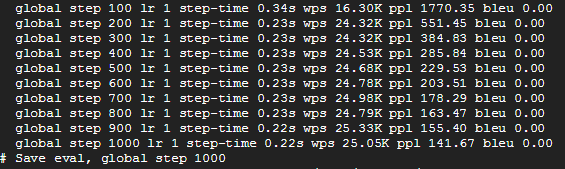
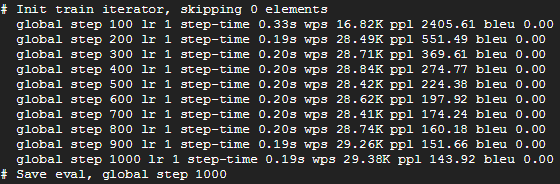
Update files

diff --git a/course/google-cloud-platform/gce-gpu-nmt.md b/course/google-cloud-platform/gce-gpu-nmt.md
@@ -6,7 +6,7 @@ title: Course | GCP | GCE | Neural Machine Translation using GPU
 
 # Neural Machine Translation using GPU on Google Compute Engine
 
-*Last Updated: July 28, 2017*
+*Last Updated: August 31, 2017*
 
 In this experiment, we walk through the steps to train a neural machine translation model with a [GPU](http://realai.org/course/tensorflow/#gpu) on [Google Compute Engine](http://realai.org/course/google-cloud-platform/#google-compute-engine).
 
@@ -14,7 +14,7 @@ In this experiment, we walk through the steps to train a neural machine translat
 
 * A Google cloud account with at least a few US dollars of credit. Typically, a user receives [$300 free credit](https://cloud.google.com/free/) over a [12-month trial period](https://cloud.google.com/free/docs/frequently-asked-questions#free-trial). A credit card is needed to create an account.
 
-* Join the [NVIDIA Developer Program](https://developer.nvidia.com/developer-program). Membership is required for [cuDNN download](https://developer.nvidia.com/rdp/cudnn-download). Save the [Linux version](https://developer.nvidia.com/compute/machine-learning/cudnn/secure/v5.1/prod_20161129/8.0/cudnn-8.0-linux-x64-v5.1-tgz) of cuDNN v5.1 (Jan 20, 2017) for CUDA 8.0 in a directory on your local computer.
+* Join the [NVIDIA Developer Program](https://developer.nvidia.com/developer-program). Membership is required for [cuDNN download](https://developer.nvidia.com/rdp/cudnn-download). Save the [Linux version](https://developer.nvidia.com/compute/machine-learning/cudnn/secure/v6/prod/8.0_20170307/cudnn-8.0-linux-x64-v6.0-tgz) of "cuDNN v6.0 (April 27, 2017), for CUDA 8.0" in a directory on your local computer.
 
 ## VM Instance
 
@@ -22,14 +22,14 @@ Create a virtual machine (VM) instance in [Compute Engine](https://console.cloud
 
 ## GPU Setup - CUDA
 
-[CUDA](https://en.wikipedia.org/wiki/CUDA) is a software created by NVIDIA that allows us to use its GPUs. First we need to ensure that our system has [gcc](https://en.wikipedia.org/wiki/GNU_Compiler_Collection) installed:
+[CUDA](http://www.nvidia.com/object/cuda_home_new.html) (Compute Unified Device Architecture) is a toolkit created by [NVIDIA](http://www.nvidia.com) that allows us to use its GPUs. CUDA has an official [Installation Guide for Linux](http://docs.nvidia.com/cuda/cuda-installation-guide-linux/index.html). According to the Guide's [System Requirements](http://docs.nvidia.com/cuda/cuda-installation-guide-linux/index.html#system-requirements), we need to have [gcc](https://en.wikipedia.org/wiki/GNU_Compiler_Collection) on our system:
 
 ```bash
 sudo apt-get update
 sudo apt-get install build-essential -y
 ```
 
-Now follow the [NVIDIA CUDA Installation Guide for Linux](http://docs.nvidia.com/cuda/cuda-installation-guide-linux/index.html):
+Now download CUDA from [CUDA Toolkit Download](https://developer.nvidia.com/cuda-downloads), then follow the Guide's [instructions for Ubuntu](http://docs.nvidia.com/cuda/cuda-installation-guide-linux/index.html#ubuntu-installation):
 
 ```bash
 wget https://developer.download.nvidia.com/compute/cuda/repos/ubuntu1604/x86_64/cuda-repo-ubuntu1604_8.0.61-1_amd64.deb
@@ -47,10 +47,10 @@ export LD_LIBRARY_PATH=/usr/local/cuda-8.0/lib64${LD_LIBRARY_PATH:+:${LD_LIBRARY
 
 ## GPU Setup - cuDNN
 
-Click the gear icon on the upper right corner of the terminal, select the cuDNN file downloaded earlier, and upload it to the virtual machine. After the file is transferred to the cloud:
+[cuDNN](https://developer.nvidia.com/cudnn) provides highly-tuned building blocks specifically for deep learning, such as convolution, pooling, and normalization. Click the gear icon on the upper right corner of the terminal, select the cuDNN file downloaded earlier, and upload it to the VM. After the file is transferred to the cloud, follow these steps based on the official instructions for [Installing cuDNN on Linux](http://docs.nvidia.com/deeplearning/sdk/cudnn-install/index.html#installlinux):
 
 ```bash
-tar -xzvf cudnn-8.0-linux-x64-v5.1.tgz
+tar -xzvf cudnn-8.0-linux-x64-v6.0.tgz
 sudo cp cuda/lib64/* /usr/local/cuda/lib64/
 sudo cp cuda/include/* /usr/local/cuda/include/
 ```
@@ -63,6 +63,8 @@ rm -rf cuda
 rm cudnn-8.0-linux-x64-v5.1.tgz
 ```
 
+The NVIDIA portion of the installation is now complete. Let's move to [TensorFlow](http://realai.org/course/tensorflow/).
+
 ## TensorFlow Setup
 
 Following the requirements on [official TensorFlow installation instructions](https://www.tensorflow.org/install/install_linux), we first install a library:
@@ -74,14 +76,12 @@ sudo apt-get install libcupti-dev -y
 Then we get pip from [Python Software Foundation](https://packaging.python.org/tutorials/installing-packages/):
 
 ```bash
-wget https://bootstrap.pypa.io/get-pip.py
-sudo python get-pip.py
-rm get-pip.py
+curl https://bootstrap.pypa.io/get-pip.py | sudo python3 get-pip.py
 ```
 
 ### Moving VM Instance
 
-Type 'exit' to close the terminal, then STOP (DO NOT **DELETE**) the VM instance on which we just installed GPU software. In [Snapshots](https://console.cloud.google.com/compute/snapshots), create a snapshot of this instance. Go back to "VM instances" and shut down the instance for which we already created a snapshot. Now it's time to get a powerful GPU computer.
+Type 'exit' to close the terminal, then STOP (DO NOT **DELETE**) the VM instance on which we just installed GPU software. In [Snapshots](https://console.cloud.google.com/compute/snapshots), create a snapshot of this instance. Go back to "VM instances" and `DELETE` the instance if you like since we've already created a snapshot. Now it's time to get a powerful GPU computer.
 
 In Oregon, an "n1-standard-2" machine type costs [$0.095 per hour](https://cloud.google.com/compute/pricing#predefined_machine_types) and 1 GPU processor costs [$0.70 per hour](https://cloud.google.com/compute/pricing#gpus). We create a new VM in Zone "us-west1-b" using these parameters.
 
@@ -92,6 +92,16 @@ On this new VM, we do a [native pip](https://www.tensorflow.org/install/install_
 ```bash
 sudo pip install tensorflow-gpu
 ```
+
+### Jupyter Notebook (Optional)
+
+If needed, install [Jupyter Notebook](http://realai.org/course/jupyter/):
+
+```bash
+sudo pip install jupyter
+```
+
+For readers who expect to use more VMs running TensorFlow on GPU, now is a good time to create an image or a snapshot. New VMs can be directly created in the future. To easily distinguish different installations, consider naming the image or snapshot with package names and versions such as `cuda8-0-cudnn6-0-pip3`.
 
 ## Basic Neural Machine Translation
 
@@ -122,7 +132,7 @@ python -m nmt.nmt \
     --metrics=bleu
 ```
 
-On this instance, our model trains at less than 0.30s per 100 steps, even a few times faster than what's reported in the tutorial!
+On this instance, our model trains at around 0.20s per step, even a few times faster than what's reported in the tutorial!
 
 ![](http://realai.org/course/google-cloud-platform/gce-gpu-nmt-2.png)
 

diff --git a/README.md b/README.md
@@ -36,7 +36,7 @@ mathjax: true
     2. Programming in [Python 3](http://realai.org/course/python/) with [Jupyter Notebook](http://realai.org/course/jupyter/)
     3. Deep Learning in [TensorFlow](http://realai.org/course/tensorflow/)
 
-5. [Frontiers](http://realai.org/frontiers/)
+5. [Frontiers](http://realai.org/frontiers/) (excluding Deep Reinforcement Learning)
     1. Learning Goals
         1. [Concept Learning](http://realai.org/concept-learning/)
         2. [Continual Learning](http://realai.org/continual-learning/)
